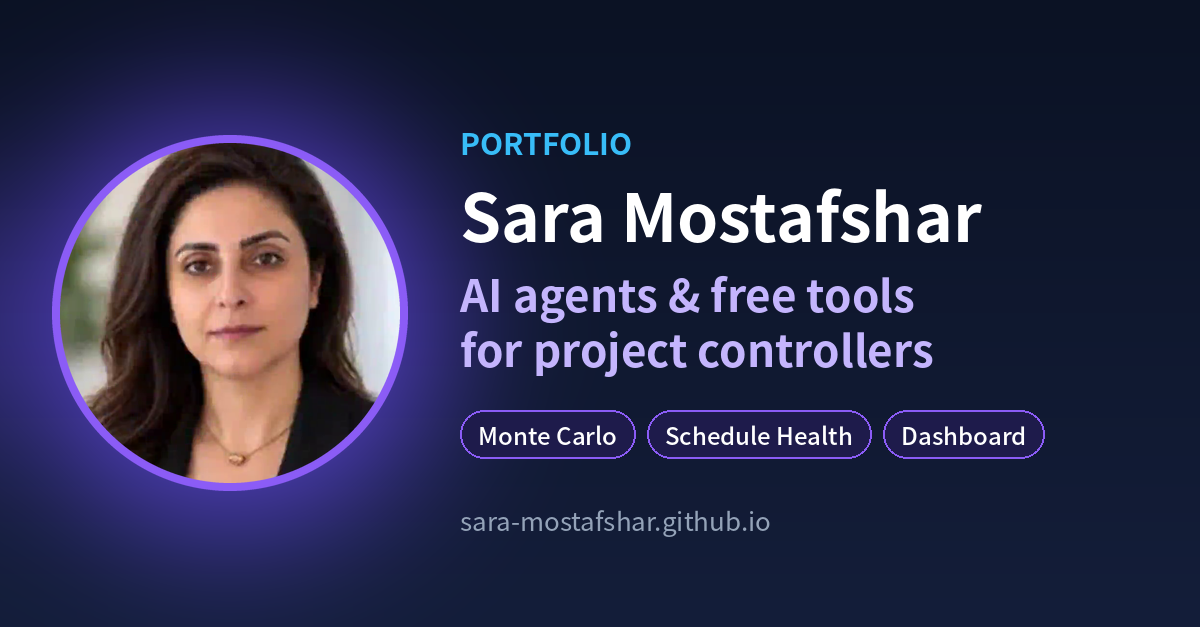
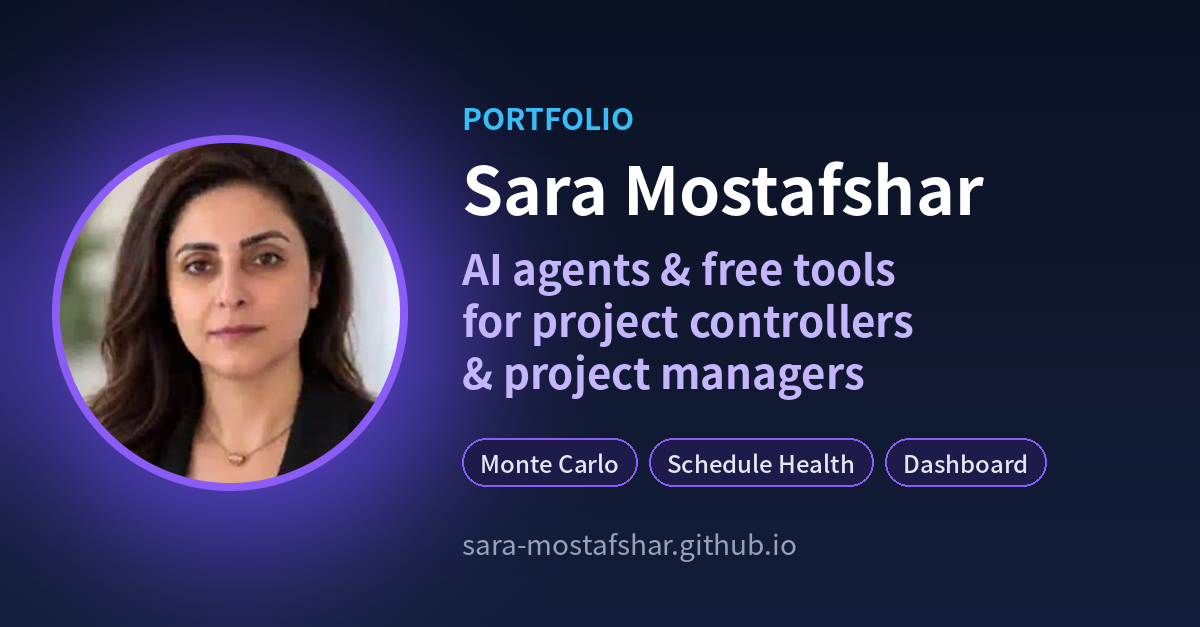
Update link preview image and text for project managers
Claude-Session: https://claude.ai/code/session_01TcS9Qms3b5mdDK3pjFbrMT

Changed region(s): [[0.3392, 0.1515, 0.8633, 0.7879], [0.37, 0.8182, 0.6783, 0.9091]]

diff --git a/index.html b/index.html
@@ -8,7 +8,7 @@
 <meta property="og:type" content="website">
 <meta property="og:url" content="https://sara-mostafshar.github.io/">
 <meta property="og:title" content="Sara Mostafshar – AI agents & free tools for project controllers and project managers">
-<meta property="og:description" content="Free browser tools for Monte Carlo risk analysis, DCMA 14-point schedule health checks and project dashboards, plus AI agents that turn project data into management reports.">
+<meta property="og:description" content="For project controllers and project managers: free browser tools for Monte Carlo risk analysis, DCMA 14-point schedule health checks and project dashboards, plus AI agents that turn project data into management reports.">
 <meta property="og:image" content="https://sara-mostafshar.github.io/og-image.png">
 <meta property="og:image:width" content="1200">
 <meta property="og:image:height" content="627">
